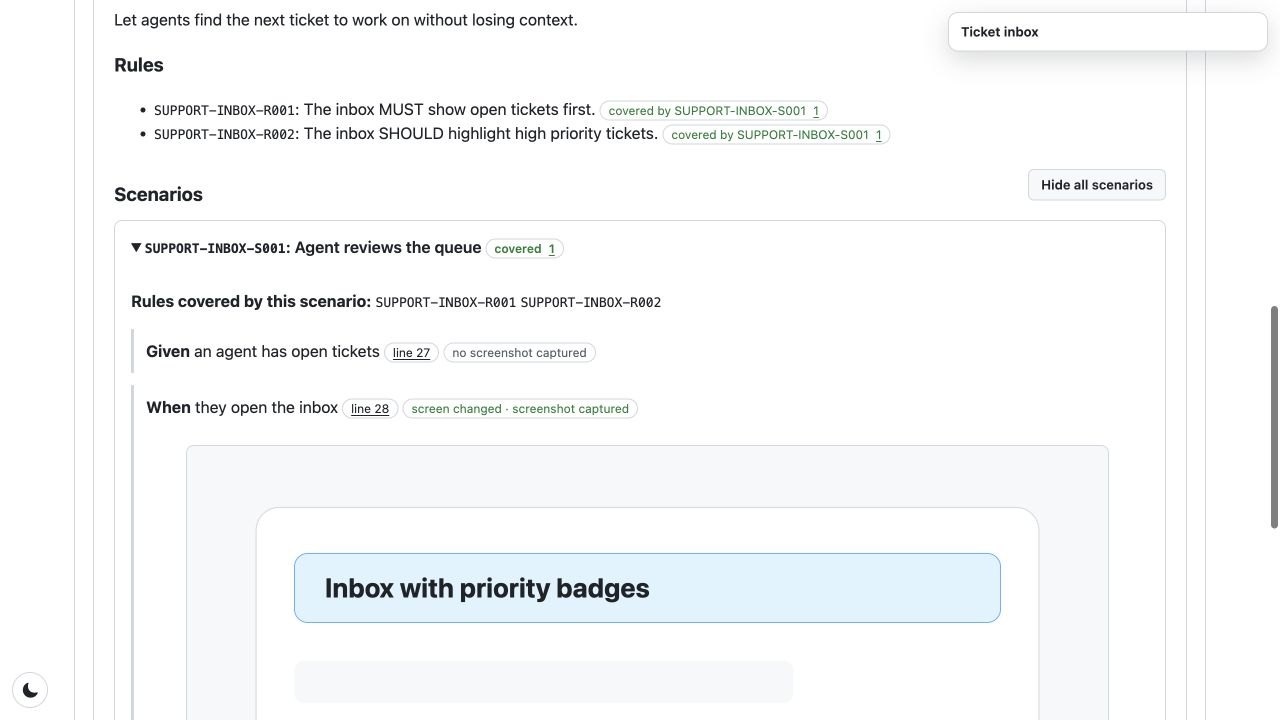
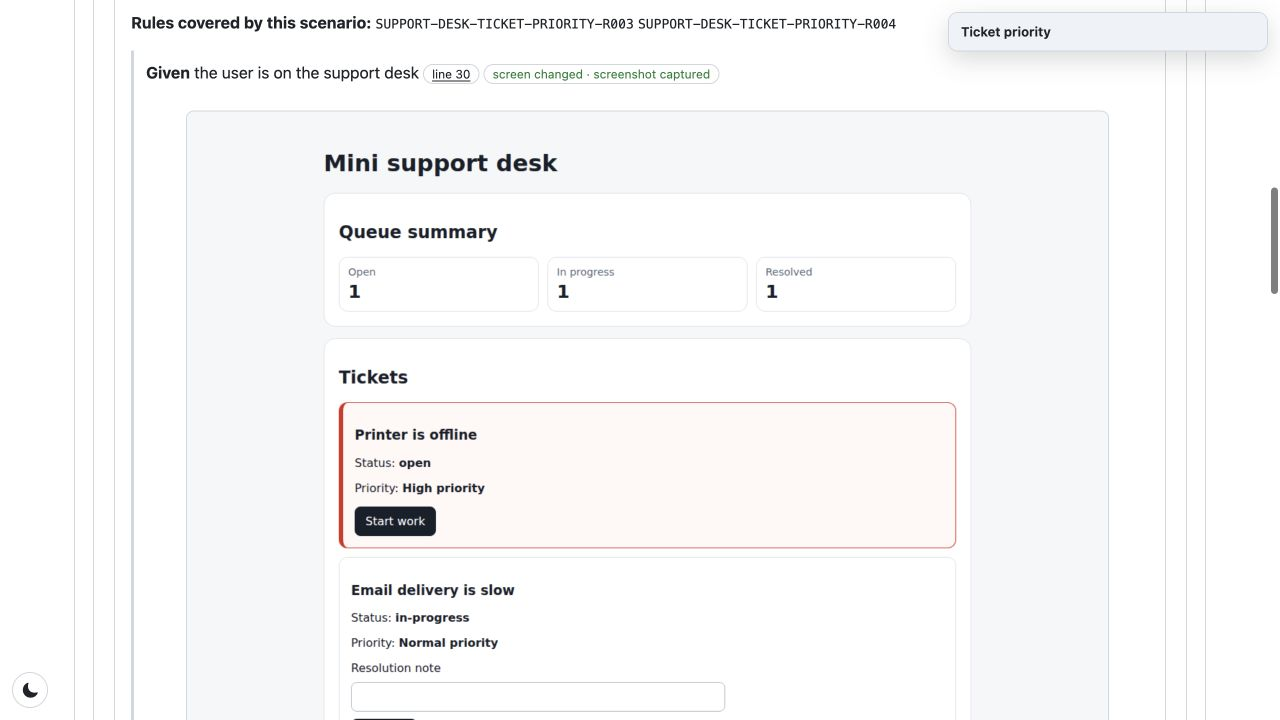
Refresh README report screenshots

diff --git a/README.md b/README.md
@@ -39,15 +39,15 @@ The demo project makes high-priority tickets visually distinct in [one real pull
 
 - [Open the demo app repository](https://github.com/anselmdk/feature-spec-md-demo)
 - [Browse the latest demo report](https://feature-spec-md.anselm.dk/demo/latest/)
-- [Open the complete feature report](https://feature-spec-md.anselm.dk/demo/build/297/)
-- [Open the PR diff report](https://feature-spec-md.anselm.dk/demo/pr/24/297/)
+- [Open the complete feature report](https://feature-spec-md.anselm.dk/demo/build/299/)
+- [Open the PR diff report](https://feature-spec-md.anselm.dk/demo/pr/24/299/)
 - [Browse the latest library-owned mock reports](https://feature-spec-md.anselm.dk/mocks/latest/)
 
 ### The feature report: intent and proof in one place
 
 Rules show their covering scenario and test source. A browser scenario shows its Given/When/Then steps, the exact spec lines, evidence status, and the screenshot captured by the test.
 
-[![Feature spec report showing covered rules, a scenario, source lines, and screenshot evidence](docs/assets/feature-spec-report.jpg)](https://feature-spec-md.anselm.dk/mocks/latest/feature-spec-report/)
+[![Feature spec report showing covered rules, a scenario, source lines, and screenshot evidence](docs/assets/feature-spec-report.jpg)](https://feature-spec-md.anselm.dk/demo/build/299/#support-desk-ticket-priority-s001)
 
 _Click the screenshot to explore the live report._
 
@@ -55,7 +55,7 @@ _Click the screenshot to explore the live report._
 
 The PR report compares two published builds. It shows changed Markdown contract text and puts before/after browser evidence in an interactive comparison slider, so visual side effects are visible even when the feature did not directly touch that scenario.
 
-[![Feature spec PR diff showing the interactive before and after screenshot slider](docs/assets/pr-diff-report.jpg)](https://feature-spec-md.anselm.dk/demo/pr/24/297/)
+[![Feature spec PR diff showing the interactive before and after screenshot slider](docs/assets/pr-diff-report.jpg)](https://feature-spec-md.anselm.dk/demo/pr/24/299/)
 
 _Click the screenshot to explore the live diff report._
 
